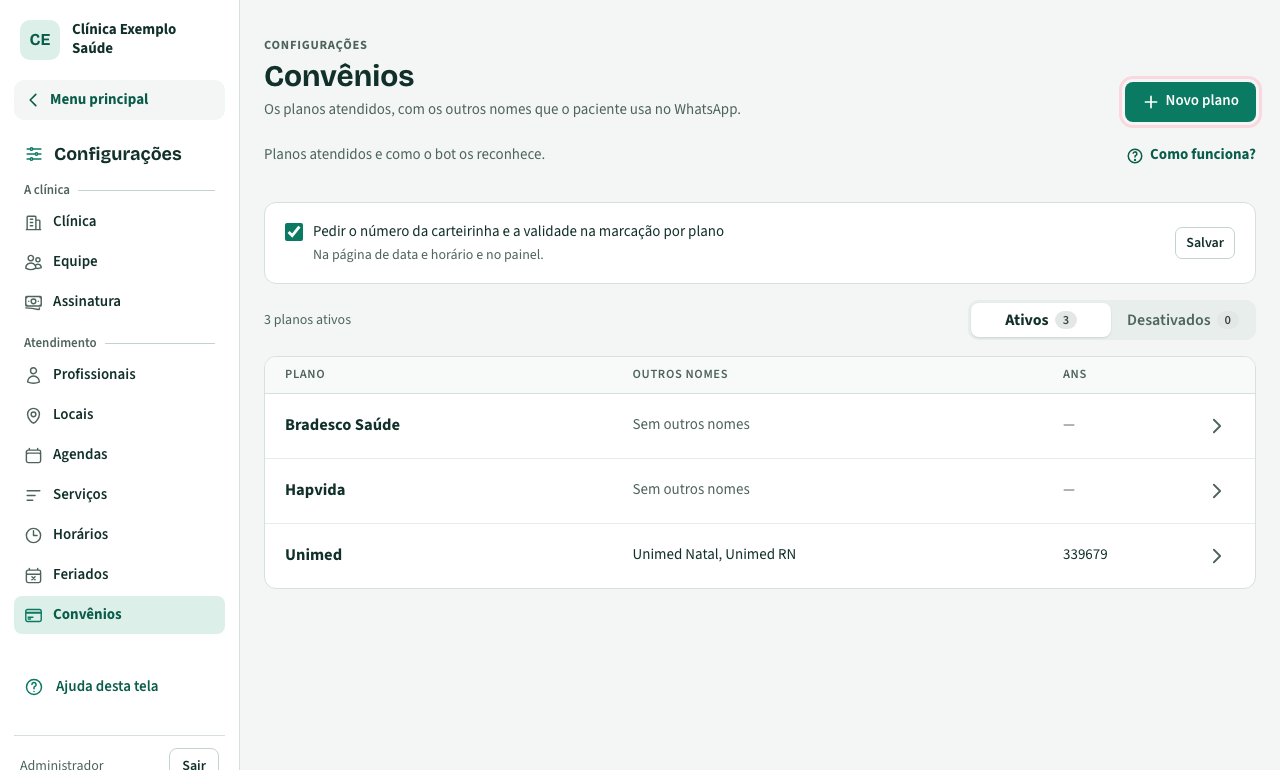
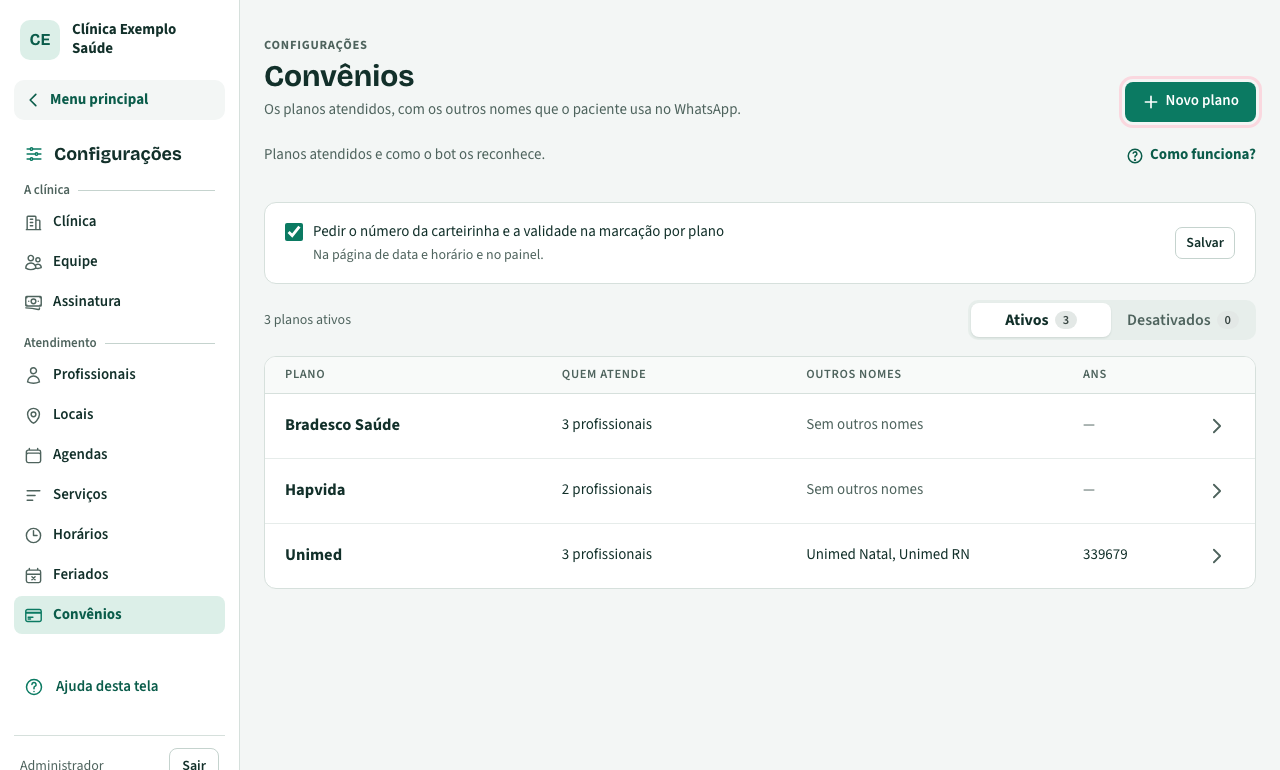
Ajuda: capturas config-profissionais, config-convenios e config-clinica refeitas (fila vazia)

diff --git a/docs/README.md b/docs/README.md
@@ -3,7 +3,7 @@
 > **MS, serviços por profissional (07/nov):** S2, S3, S1 e S4 feitas e **no staging** (`02d17e3`; migrações
 > `20261230120000` e `20261230130000` aplicadas lá). O cliente valida pelo roteiro no fim da seção 10 do
 > [`planejamento-multiprofissional.md`](planejamento-multiprofissional.md). Produção só com autorização. Capturas na fila:
-> `config-profissionais`, `config-convenios` e `config-clinica` (`config-servicos` e `marcar` refeitas).
+> nenhuma (as 5 da ME, MC, MI e MS refeitas).
 >
 > **Multiprofissional (07/nov):** ME, MC e MI + MB no staging (migrações `20261229120000`, `20261229130000` e
 > `20261229140000`); o cliente valida pelo roteiro da seção 8. Produção só com autorização. 3 capturas na fila. Depois:

diff --git a/docs/capturas-pendentes.md b/docs/capturas-pendentes.md
@@ -9,6 +9,4 @@ a captura e o motivo, avisar o cliente no fim da etapa e esperar a autorização
 
 ## Pendentes
 
-- `config-profissionais` — lista mostra as especialidades e o selo "sem especialidade" (ME, 07/11/2026)
-- `config-convenios` — coluna "Quem atende" e o selo "nenhum profissional" (MC, 07/11/2026)
-- `config-clinica` — "Informações que o bot responde" virou um aviso apontando para Profissionais (MI, 07/11/2026)
+(nenhuma)
